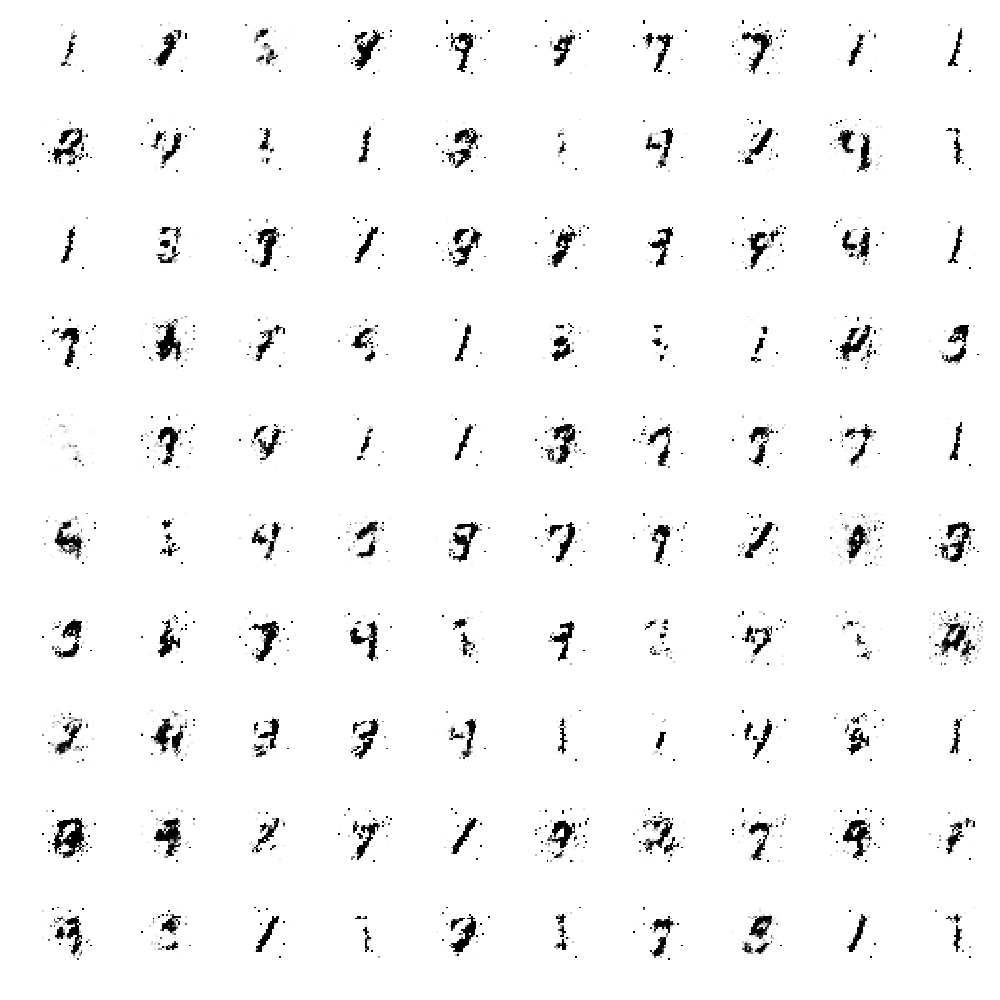
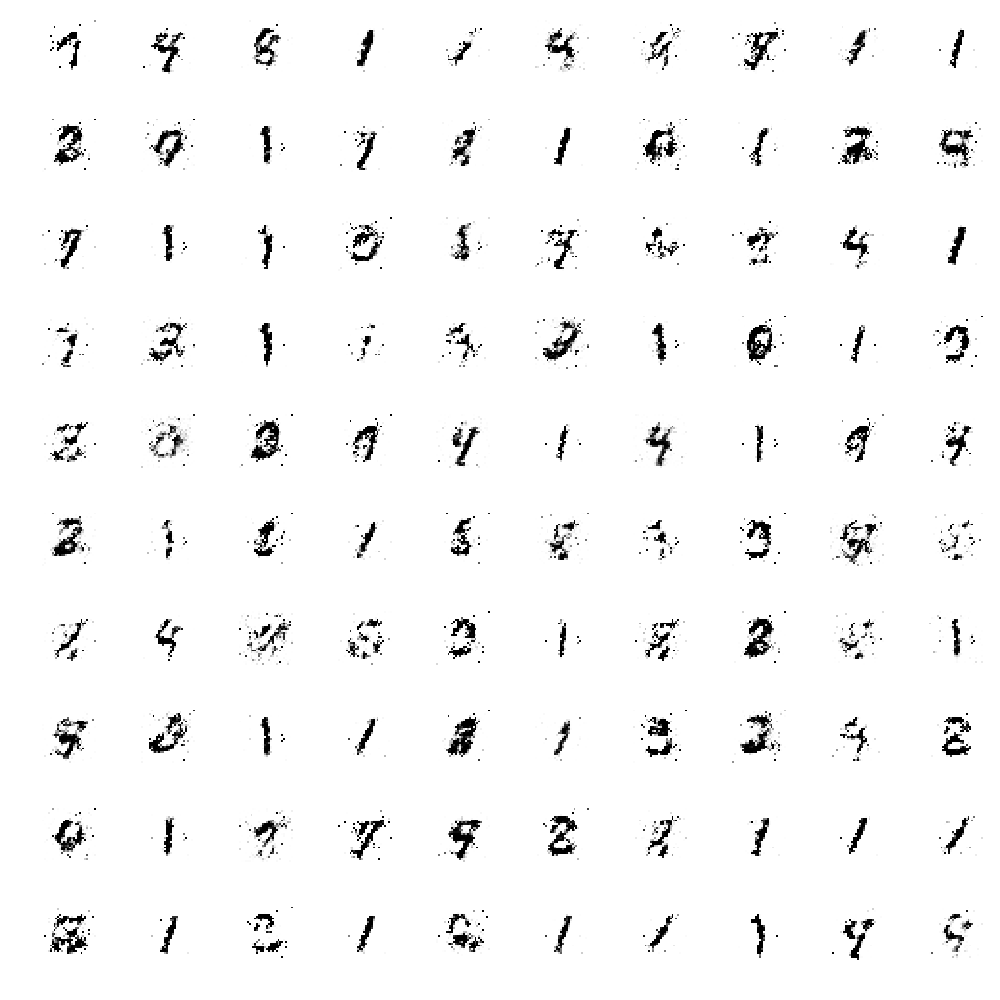
alteracoes durante aula passada

diff --git a/Trabalhos da Aula 07/GAN/gan_teste.py b/Trabalhos da Aula 07/GAN/gan_teste.py
@@ -1,0 +1,163 @@
+import sys
+import os
+import shutil
+from keras.datasets import mnist
+import numpy as np
+from keras.optimizers import Adam
+from keras.initializers import RandomNormal
+from keras.models import Model, Sequential
+from keras.layers import Reshape, Dense, Dropout, Flatten, Conv2D, LeakyReLU, Activation, Input
+import matplotlib.pyplot as plt
+import time
+
+from BHAA import BHAA
+from BHSA import BHSA
+
+np.random.seed(42)
+
+def exec_time(start, msg):
+	end = time.time()
+	delta = end - start
+	if(delta > 60): print("Tempo: " + str(delta/60.0) + " min [" + msg + "]")
+	else: print("Tempo: " + str(int(delta)) + " s [" + msg + "]")
+
+def generator_model(opt):
+	model = Sequential()
+	model.add(Dense(256, input_dim=100, kernel_initializer=RandomNormal(stddev=0.02)))
+	model.add(LeakyReLU(0.2))
+	model.add(Dense(512))
+	model.add(LeakyReLU(0.2))
+	model.add(Dense(1024))
+	model.add(LeakyReLU(0.2))
+	model.add(Dense(784))
+	model.add(BHAA(dominio_0_1=False))
+
+	model.compile(loss='binary_crossentropy', optimizer=opt)
+
+	return model
+
+def discriminator_model(opt):
+	model = Sequential()
+
+	model.add(Dense(1024, input_dim=784, kernel_initializer=RandomNormal(stddev=0.02)))
+	model.add(LeakyReLU(0.2))
+	model.add(Dropout(0.3))
+	model.add(Dense(512))
+	model.add(LeakyReLU(0.2))
+	model.add(Dropout(0.3))
+	model.add(Dense(256))
+	model.add(LeakyReLU(0.2))
+	model.add(Dropout(0.3))
+	model.add(Dense(1, activation='sigmoid'))
+	model.compile(loss='binary_crossentropy', optimizer=opt)
+
+	return model
+
+def gan_model(D, G, opt):
+	D.trainable = False
+
+	gan_input = Input(shape=(100,))
+	gan_output = D(G(gan_input))
+	gan = Model(gan_input, gan_output)
+	gan.compile(loss='binary_crossentropy', optimizer=opt)
+
+	return gan
+
+def train(X_train, generator, discriminator, GAN, epochs=23000, verbose_step=250, batch_size=128, output_dir='output'):
+	print("*** Training", epochs, "epochs with batch size =", batch_size, "***")
+	times = []
+	d_lossses = []
+	g_losses = []
+
+	start_train = time.time()
+
+	for e in range(epochs+1):
+		start = time.time()
+
+		noise = np.random.normal(0, 1, size=[batch_size, 100])
+		imageBatch = X_train[np.random.randint(0, X_train.shape[0], size=batch_size)]
+
+		G_images = generator.predict(noise)
+		X = np.concatenate([imageBatch, G_images])
+
+		y = np.zeros(2*batch_size)
+		y[:batch_size] = 0.9
+
+		discriminator.trainable = True
+		d_loss = discriminator.train_on_batch(X, y)
+
+		noise = np.random.normal(0, 1, size=[batch_size, 100])
+		y = np.ones(batch_size)
+		discriminator.trainable = False
+		g_loss = GAN.train_on_batch(noise, y)
+
+		d_lossses.append(d_loss)
+		g_losses.append(g_loss)
+		times.append(time.time() - start)
+
+		if(e % verbose_step == 0):
+			print(str(e) + ": d_loss =", d_loss, "| g_loss =", g_loss)
+			plotGeneratedImages(e, generator, output_dir)
+
+	exec_time(start_train, "Training")
+	generate_graphics(times, d_lossses, g_losses, output_dir)
+
+def generate_graphics(times, d_lossses, g_losses, output_dir):
+	plt.close('all')
+	x = np.linspace(0, len(times), len(times))
+
+	plt.clf()
+	plt.title("GAN MNIST - Exec time per epoch")
+	plt.ylabel('seconds')
+	plt.xlabel('epoch')
+	plt.plot(x[1:], times[1:])
+	plt.savefig(os.path.join(output_dir, 'times.png'))
+	# plt.show()
+
+	plt.clf()
+	plt.title("GAN MNIST - D and G losses per epoch")
+	plt.ylabel('loss(binary crossentropy)')
+	plt.xlabel('epoch')
+	plt.plot(x, d_lossses, 'b-', label="D loss")
+	plt.plot(x, g_losses, 'g-', label="G loss")
+	plt.savefig(os.path.join(output_dir, 'losses.png'))
+	# plt.show()
+
+def plotGeneratedImages(e, generator, output_dir, examples=100, dim=(10, 10), figsize=(10, 10)):
+    noise = np.random.normal(0, 1, size=[examples, 100])
+    generatedImages = generator.predict(noise)
+    generatedImages = generatedImages.reshape(examples, 28, 28)
+
+    plt.close('all')
+
+    plt.figure(figsize=figsize)
+    for i in range(generatedImages.shape[0]):
+        plt.subplot(dim[0], dim[1], i+1)
+        plt.imshow(generatedImages[i], interpolation='nearest', cmap='gray_r')
+        plt.axis('off')
+    plt.tight_layout()
+    plt.savefig(os.path.join(output_dir, str(e) + '.png'))
+
+def main():
+	if(len(sys.argv) > 1):
+		folder = 'output_'+sys.argv[1]
+		if os.path.exists(folder):
+			shutil.rmtree(folder)
+		os.makedirs(folder)
+
+	(X_train, y_train), (X_test, y_test) = mnist.load_data()
+	X_train = (X_train.astype(np.float32)-127.5)/127.5
+	X_train = X_train.reshape(60000, 784)
+
+	opt = Adam(lr=0.0002, beta_1=0.5)
+
+	generator = generator_model(opt)
+	discriminator = discriminator_model(opt)
+	GAN = gan_model(discriminator, generator, opt)
+
+	train(X_train, generator, discriminator, GAN, output_dir=folder)
+
+if __name__ == '__main__':
+	start = time.time()
+	main()
+	exec_time(start, "All")

diff --git a/Trabalhos da Aula 07/GAN/BHAA.py b/Trabalhos da Aula 07/GAN/BHAA.py
@@ -7,15 +7,17 @@ from keras.engine import InputSpec
 class BHAA(Layer):
 
 	def __init__(self,
-		lambda_initializer=initializers.Constant(value=0.5),
-		t1_initializer=initializers.Constant(value=0.5),
-		t2_initializer=initializers.Constant(value=0.5),
+		lambda_initializer=initializers.Constant(value=1),
+		t1_initializer=initializers.glorot_normal(),
+		t2_initializer=initializers.glorot_normal(),
+		dominio_0_1=True,
 		shared_axes=None, **kwargs):
 		super(BHAA, self).__init__(**kwargs)
 
 		self.lambda_initializer = initializers.get(lambda_initializer)
 		self.t1_initializer = initializers.get(t1_initializer)
 		self.t2_initializer = initializers.get(t2_initializer)
+		self.dominio_0_1 = dominio_0_1
 
 		if(shared_axes == None):
 			self.shared_axes = None
@@ -53,6 +55,12 @@ class BHAA(Layer):
 		# bhaa(l, t1, t2) = h1 - h2
 		# h1 = sqrt(( (l^2)*((x + (1/(2*l)))^2) ) + t1^2)
 		# h2 = sqrt(( (l^2)*((x + (1/(2*l)))^2) ) + t2^2)
-		h1 = K.sqrt( (K.square(self.l)*K.square(inputs + (1.0/(2*self.l)))) + K.square(self.t1) )
-		h2 = K.sqrt( (K.square(self.l)*K.square(inputs - (1.0/(2*self.l)))) + K.square(self.t2) )
-		return h1 - h2
+		denom = 2
+		soma = 0
+		if(self.dominio_0_1):
+			denom = 4
+			soma = 0.5
+
+		h1 = K.sqrt( (K.square(self.l)*K.square(inputs + (1.0/(denom*self.l)))) + K.square(self.t1) )
+		h2 = K.sqrt( (K.square(self.l)*K.square(inputs - (1.0/(denom*self.l)))) + K.square(self.t2) )
+		return (h1 - h2) + soma

diff --git a/Trabalhos da Aula 07/GAN/BHSA.py b/Trabalhos da Aula 07/GAN/BHSA.py
@@ -7,8 +7,8 @@ from keras.engine import InputSpec
 class BHSA(Layer):
 
 	def __init__(self,
-		lambda_initializer=initializers.Constant(value=0.5),
-		t_initializer=initializers.Constant(value=0.5),
+		lambda_initializer=initializers.Constant(value=1),
+		t_initializer=initializers.glorot_normal(),
 		shared_axes=None, **kwargs):
 		super(BHSA, self).__init__(**kwargs)
 
@@ -49,6 +49,6 @@ class BHSA(Layer):
 		# bhaa(l, t) = h1 - h2
 		# h1 = sqrt(( (l^2)*((x + (1/(2*l)))^2) ) + t^2)
 		# h2 = sqrt(( (l^2)*((x + (1/(2*l)))^2) ) + t^2)
-		h1 = K.sqrt( (K.square(self.l)*K.square(inputs + (1.0/(2*self.l)))) + K.square(self.t) )
-		h2 = K.sqrt( (K.square(self.l)*K.square(inputs - (1.0/(2*self.l)))) + K.square(self.t) )
-		return h1 - h2
+		h1 = K.sqrt( (K.square(self.l)*K.square(inputs + (1.0/(4*self.l)))) + K.square(self.t) )
+		h2 = K.sqrt( (K.square(self.l)*K.square(inputs - (1.0/(4*self.l)))) + K.square(self.t) )
+		return (h1 - h2) + 0.5

diff --git a/Trabalhos da Aula 07/GAN/gan_default_mnist.py b/Trabalhos da Aula 07/GAN/gan_default_mnist.py
@@ -60,7 +60,7 @@ def gan_model(D, G, opt):
 
 	return gan
 
-def train(X_train, generator, discriminator, GAN, epochs=6000, verbose_step=250, batch_size=128, output_dir='output'):
+def train(X_train, generator, discriminator, GAN, epochs=23000, verbose_step=250, batch_size=128, output_dir='output'):
 	print("*** Training", epochs, "epochs with batch size =", batch_size, "***")
 	times = []
 	d_lossses = []
